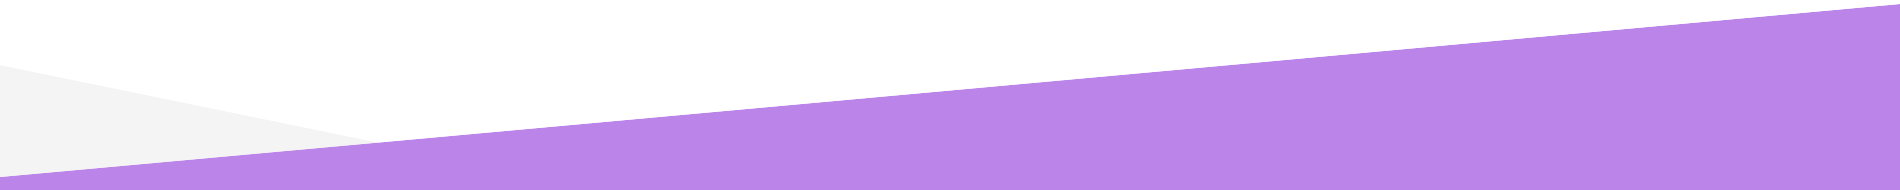
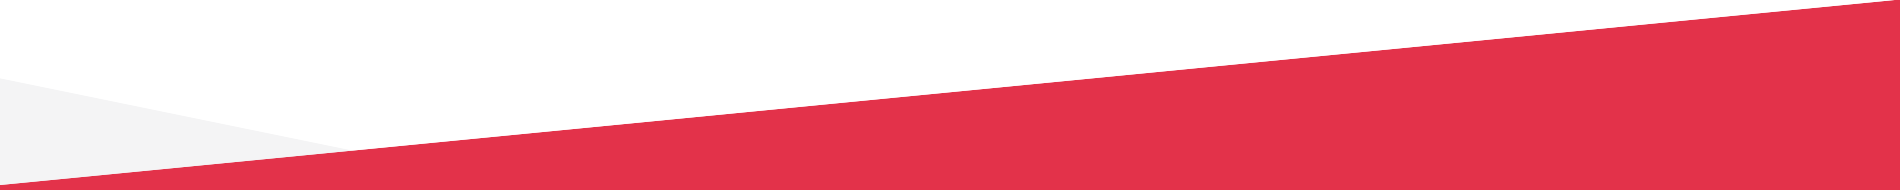
Colors Changed, images changed

diff --git a/client/src/components/Navbar.js b/client/src/components/Navbar.js
@@ -106,7 +106,7 @@ const Navbar = (props) => {
             <NavLink
               to="/codb"
               style={({ isActive }) => ({
-                color: isActive ? "#466bda" : "#545e6f",
+                color: isActive ? "#e3324a" : "#545e6f",
                 textDecoration: "none",
                 fontWeight: "500",
                 // background: isActive ? '#7600dc' : '#f0f0f0',
@@ -135,7 +135,7 @@ const Navbar = (props) => {
             <NavLink
               to="/products"
               style={({ isActive }) => ({
-                color: isActive ? "#466bda" : "#545e6f",
+                color: isActive ? "#e3324a" : "#545e6f",
                 textDecoration: "none",
                 fontWeight: "500",
                 // background: isActive ? '#7600dc' : '#f0f0f0',
@@ -166,7 +166,7 @@ const Navbar = (props) => {
               <NavLink
                 to="/marketplace"
                 style={({ isActive }) => ({
-                  color: isActive ? "#466bda" : "#545e6f",
+                  color: isActive ? "#e3324a" : "#545e6f",
                   textDecoration: "none",
                   fontWeight: "500",
                   // background: isActive ? '#7600dc' : '#f0f0f0',
@@ -195,7 +195,7 @@ const Navbar = (props) => {
             ) : null}
             {/* <NavLink to="/order-history"
               style={({ isActive }) => ({
-                color: isActive ? '#466bda' : '#545e6f',
+                color: isActive ? '#e3324a' : '#545e6f',
                 textDecoration: 'none',
                 fontWeight: '500',
                 // background: isActive ? '#7600dc' : '#f0f0f0',
@@ -216,7 +216,7 @@ const Navbar = (props) => {
             <NavLink
               to="/orders"
               style={({ isActive }) => ({
-                color: isActive ? "#466bda" : "#545e6f",
+                color: isActive ? "#e3324a" : "#545e6f",
                 textDecoration: "none",
                 fontWeight: "500",
                 // background: isActive ? '#7600dc' : '#f0f0f0',
@@ -245,7 +245,7 @@ const Navbar = (props) => {
             <NavLink
               to="/copr"
               style={({ isActive }) => ({
-                color: isActive ? "#466bda" : "#545e6f",
+                color: isActive ? "#e3324a" : "#545e6f",
                 textDecoration: "none",
                 fontWeight: "500",
                 // background: isActive ? '#7600dc' : '#f0f0f0',
@@ -274,7 +274,7 @@ const Navbar = (props) => {
             <NavLink
               onClick={logout}
               style={({ isActive }) => ({
-                color: isActive ? "#466bda" : "#545e6f",
+                color: isActive ? "#e3324a" : "#545e6f",
                 textDecoration: "none",
                 fontWeight: "500",
                 // background: isActive ? '#7600dc' : '#f0f0f0',

diff --git a/client/src/components/Navbar2.js b/client/src/components/Navbar2.js
@@ -51,7 +51,7 @@ const Navbar = () => {
 
             <NavLink to="/"
               style={({ isActive }) => ({
-                color: isActive ? '#466bda' : '#545e6f',
+                color: isActive ? '#e3324a' : '#545e6f',
                 textDecoration: 'none',
                 fontWeight: '500',
                 // background: isActive ? '#7600dc' : '#f0f0f0',
@@ -71,7 +71,7 @@ const Navbar = () => {
             </NavLink>
             <NavLink to="/homeabout"
               style={({ isActive }) => ({
-                color: isActive ? '#466bda' : '#545e6f',
+                color: isActive ? '#e3324a' : '#545e6f',
                 textDecoration: 'none',
                 fontWeight: '500',
                 // background: isActive ? '#7600dc' : '#f0f0f0',
@@ -91,7 +91,7 @@ const Navbar = () => {
             </NavLink>
             <NavLink to="/login"
               style={({ isActive }) => ({
-                color: isActive ? '#466bda' : '#545e6f',
+                color: isActive ? '#e3324a' : '#545e6f',
                 textDecoration: 'none',
                 fontWeight: '500',
                 // background: isActive ? '#7600dc' : '#f0f0f0',

diff --git a/client/src/components/AboutUs/AboutStyles.css b/client/src/components/AboutUs/AboutStyles.css
@@ -72,7 +72,7 @@
     /* border: 2px solid red; */
     font-size: 1.2rem;
     padding: 0.5em 0;
-    color: rgb(0, 29, 252);
+    color: rgb(227, 50, 74);
     font-weight: 600;
 }
 .seewhyinfo{
@@ -125,7 +125,7 @@
     position: relative;
     width: 80%;
     /* border: 1px solid rgb(51, 51, 51); */
-    border: 1.5px solid rgb(0, 29, 252);
+    border: 1.5px solid rgb(227, 50, 74);
     margin: 8px auto;
   }
 #heading2{
@@ -144,7 +144,7 @@
     position: relative;
     width: 80%;
     /* border: 1px solid rgb(51, 51, 51); */
-    border: 1.5px solid rgb(0, 29, 252);
+    border: 1.5px solid rgb(227, 50, 74);
     margin: 8px auto;
   }
 .left{
@@ -159,7 +159,7 @@
 .left h3{
     font-size: 2rem;
     font-weight: 700;
-    color:  rgb(0, 29, 252); 
+    color:  rgb(227, 50, 74); 
     padding: 0 2em;
 }
 .leftinfo{

diff --git a/client/src/components/Navbar3.js b/client/src/components/Navbar3.js
@@ -89,7 +89,7 @@ const Navbar3 = (props) => {
             <NavLink
               to="/adminDashboard"
               style={({ isActive }) => ({
-                color: isActive ? "#466bda" : "#545e6f",
+                color: isActive ? "#e3324a" : "#545e6f",
                 textDecoration: "none",
                 fontWeight: "500",
                 // background: isActive ? '#7600dc' : '#f0f0f0',
@@ -119,7 +119,7 @@ const Navbar3 = (props) => {
               to="/logout"
               onClick={logout}
               style={({ isActive }) => ({
-                color: isActive ? "#466bda" : "#545e6f",
+                color: isActive ? "#e3324a" : "#545e6f",
                 textDecoration: "none",
                 fontWeight: "500",
                 // background: isActive ? '#7600dc' : '#f0f0f0',

diff --git a/client/src/css_files/rohit.css b/client/src/css_files/rohit.css
@@ -74,7 +74,7 @@
 }
 .title123 {
   font-size: 35px;
-  color: #4c6add;
+  color: #e3324a;
   margin-bottom: 10px;
 }
 .input-field {
@@ -82,7 +82,7 @@
   height: 50px;
   background: #f0f0f0;
   margin: 5px 0;
-  border: 2px solid #4c6add;
+  border: 2px solid #e3324a;
   border-radius: 50px;
   display: flex;
   align-items: center;
@@ -116,7 +116,7 @@
   cursor: pointer;
 }
 .btn123:hover {
-  background: #1d3aad;
+  background: #e3324a;
 }
 .social-text123 {
   margin: 10px 0;
@@ -144,8 +144,8 @@ a {
   text-decoration: none;
 }
 .social-icon123:hover {
-  color: #4c6add;
-  border-color: #4c6add;
+  color: #e3324a;
+  border-color: #e3324a;
 }
 .panels-container {
   position: absolute;

diff --git a/client/src/components/HomeStyles.css b/client/src/components/HomeStyles.css
@@ -30,7 +30,7 @@
     /* border: 2px solid red; */
     font-size: 1.2rem;
     padding: 0.5em 0;
-    color: rgb(0, 29, 252);
+    color: rgb(227, 50, 74);
     font-weight: 600;
 
 }
@@ -93,7 +93,7 @@
     position: relative;
     width: 80%;
     /* border: 1px solid rgb(51, 51, 51); */
-    border: 1.5px solid rgb(0, 0, 255);
+    border: 1.5px solid rgb(227, 50, 74);
     margin: 8px auto;
 }
 
@@ -131,7 +131,7 @@
 .left123 h3 {
     font-size: 2rem;
     font-weight: 700;
-    color: rgb(0, 0, 255);
+    color: rgb(227, 50, 74);
     padding: 0 2em;
 }
 

diff --git a/client/src/components/NavbarStyle.css b/client/src/components/NavbarStyle.css
@@ -294,7 +294,7 @@ a {
     height: 3px;
     left: 50%;
     position: relative;
-    background: #4682e5;
+    background: #e3324a;
     transition: width 0.3s ease 0s, left 0.3s ease 0s;
     width: 0;
     top: 5px;
